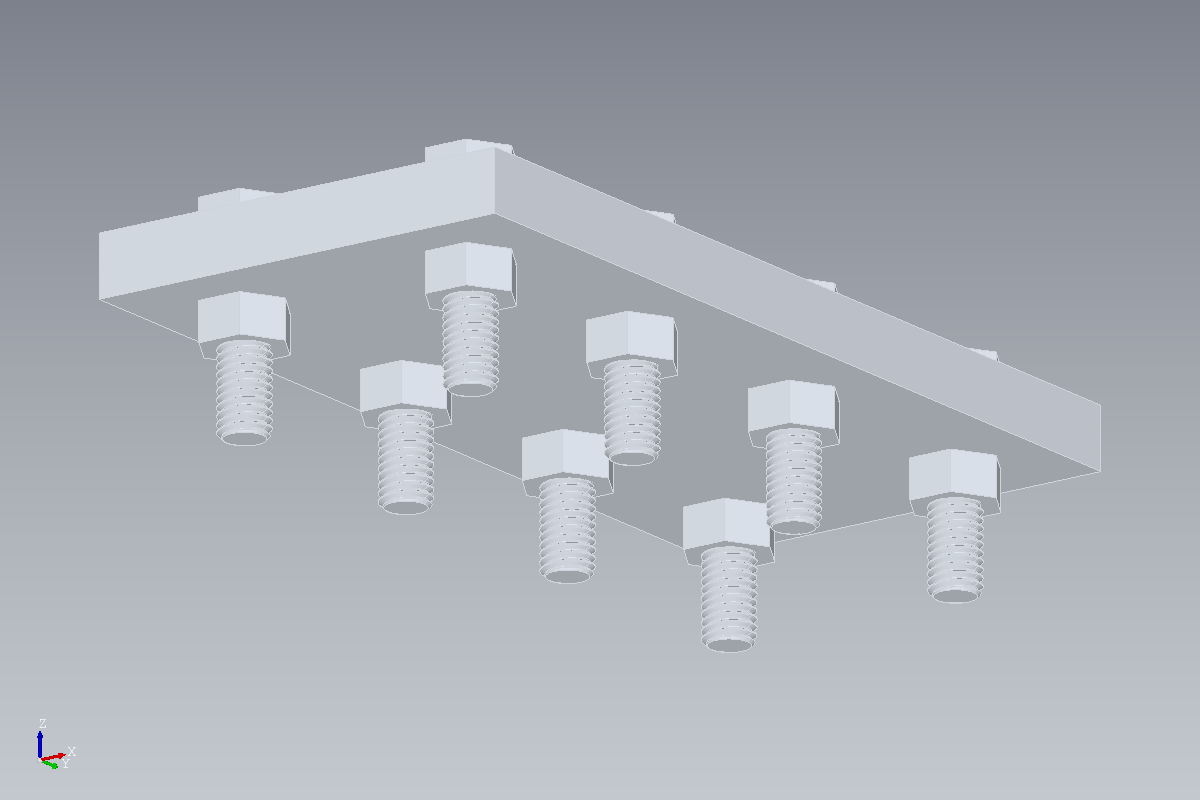
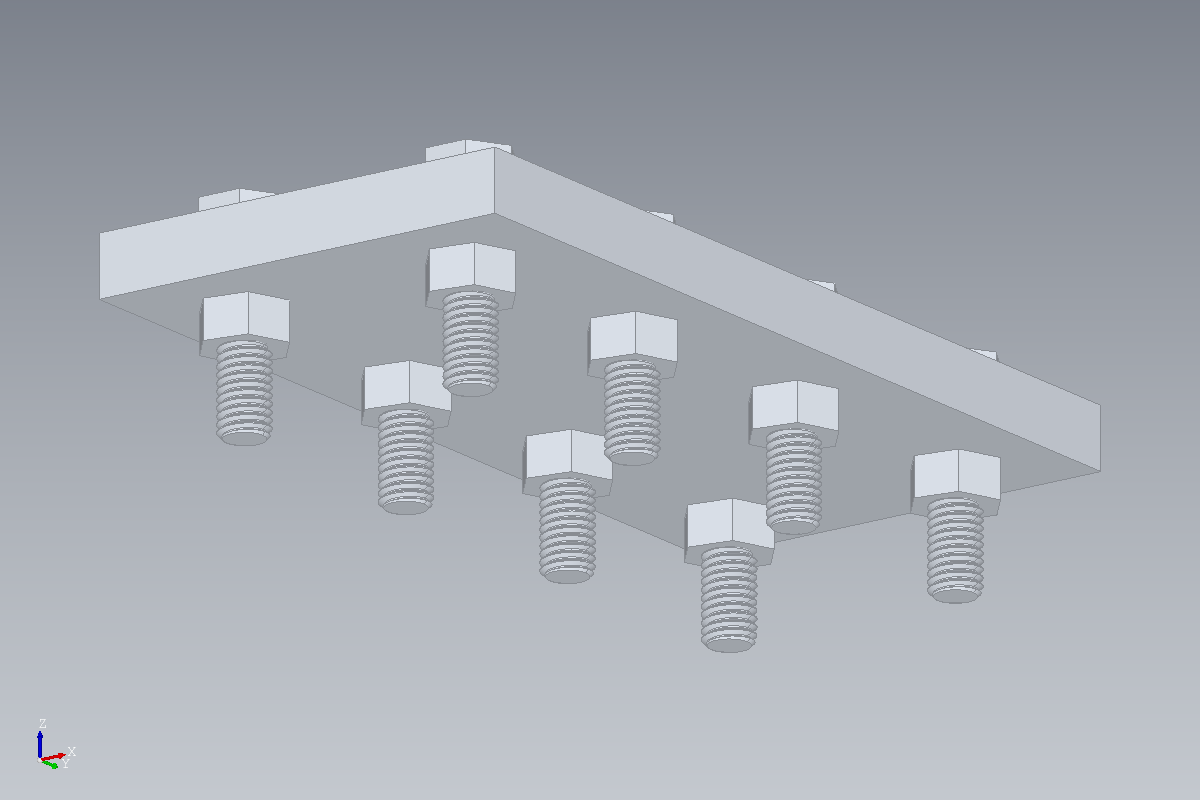
Release 0.2.0: version, changelog, docs; nuts line up with their bolts' threads
- Version 0.2.0, CHANGELOG section [0.2.0], README and user guide cover
  NURBS freeform, deformers, assembly checks and the assistant.
- threaded_bolts.cmd turns each nut so its thread lines up with the bolt's
  thread: CONTACT now finds them touching, not overlapping by ~13 mm3.
- Release smoke test starts the bundled Copilot runtime (copilot status).
- Install hints use the real package name (modeler3d[ai]).

Claude-Session: https://claude.ai/code/session_01A7vhfV94yBLHqhQEUhuk1o

diff --git a/modeler/ai/copilot.py b/modeler/ai/copilot.py
@@ -1,6 +1,6 @@
 """The in-app assistant on GitHub Copilot: each user signs in with their own GitHub account.
 
-Copilot runs through the GitHub Copilot SDK (``pip install "3Dmodeling[ai]"``).
+Copilot runs through the GitHub Copilot SDK (the ``ai`` extra: ``pip install -e ".[ai]"``).
 Nothing is billed to this app: every request counts against the signed-in
 user's own Copilot plan, Copilot Free included. The SDK starts a Copilot
 runtime (downloaded once, about 190 MB, to the user's cache folder) and talks
@@ -37,7 +37,7 @@ from typing import Any
 
 from .tools import Toolbox
 
-SDK_HINT = 'The assistant needs the GitHub Copilot SDK and Python 3.11 or newer: pip install "3Dmodeling[ai]"'
+SDK_HINT = 'The assistant needs the GitHub Copilot SDK and Python 3.11 or newer: pip install -e ".[ai]" in a checkout, or pip install "modeler3d[ai] @ git+https://github.com/shashanksingh097/3Dmodeling"'
 DEVICE_URL = "https://github.com/login/device"
 FREE_SIGNUP_URL = "https://github.com/settings/copilot"
 

diff --git a/tests/test_contact.py b/tests/test_contact.py
@@ -154,3 +154,6 @@ def test_threaded_bolt_in_nut_is_a_thread_not_a_fit():
     assert [r["state"] for r in rows] == ["thread"] and "note" in rows[0]
     plain = cx.fit(p, bolt, "plate")["fits"]  # the threaded bolt in its plain 9 mm hole
     assert [r["state"] for r in plain] == ["clearance"] and plain[0]["per_side"] == pytest.approx(0.5)
+    # each nut is turned so its thread lines up with the bolt's: they touch, not overlap
+    assert p.evaluate(f"OVERLAP({bolt}, {nut})") == pytest.approx(0, abs=1e-3)
+    assert p.evaluate(f"TOUCH({bolt}, {nut})") == 1

diff --git a/modeler/__init__.py b/modeler/__init__.py
@@ -1,6 +1,6 @@
 """3Dmodeling: a command-driven 3D modeler."""
 
-__version__ = "0.1.0"
+__version__ = "0.2.0"
 
 HOME_URL = "https://github.com/shashanksingh097/3Dmodeling"
 USER_GUIDE_URL = HOME_URL + "/blob/main/docs/USER-GUIDE.md"

diff --git a/README.md b/README.md
@@ -54,26 +54,26 @@ The language (parameters, expressions, loops, conditions, macros, selection
 by criteria, the editable history) is described in
 [docs/LANGUAGE.md](docs/LANGUAGE.md).
 
-## What it can do (0.1)
+## What it can do (0.2)
 
 - **Model by mouse or by text.** Toolbars, a fill-in form for every command, picking faces and edges in the 3D view, or a command line with completion and argument hints. Scripts with parameters, loops, conditions and your own commands.
 - **Edit any step later.** The history panel holds every step; edit, insert, suppress or delete one and the model rebuilds. Picks follow the faces they meant.
 - **Sketches** with constraints and sizes, trim, extend, fillet, offset, mirror, pattern; extrude and revolve.
 - **Features:** holes (plain, counterbore, countersink, threaded), fillets, chamfers, shell, draft, offset, split, push/pull and delete faces, patterns of features.
 - **Shapes from curves:** loft, sweep with twist and scale laws (and a graphical sweep editor), morph, pipe, rail sweeps, spine lofts, real ISO threads, springs, text, shapes from equations.
+- **NURBS freeform:** curves and surfaces from control points you can drag, networks, fills, G1/G2 blends, extend, trim, guide-curve lofts, zebra and curvature analysis, and deformers (bend, twist, taper, stretch, flow along a curve).
 - **Parts** with parameters, placed many times, and a part library.
-- **Layers, colours, materials**, mass properties, distances, angles, clash checks, section views.
+- **Layers, colours, materials**, mass properties, distances, angles, clash checks, section views, and assembly checks: do parts touch, how much clearance a shaft has in its hole, where one part sits relative to another.
 - **Results you can trust:** every operation is checked, and a broken result is refused with a reason.
 - **Files:** projects (`.m3d`) with autosave and recovery; import STEP, IGES, BREP, STL, OBJ, 3MF, glTF, PLY, OFF, VTK and simulation meshes (Gmsh, Abaqus, Nastran); export STEP, IGES, BREP, STL, OBJ, 3MF, glTF.
 - **Assistant:** chat with GitHub Copilot, signed in with your own GitHub account (Copilot Free works); it reads the model with exact tools, tests scripts in a sandbox and proposes them with a Run button.
-- **Text tools for an AI assistant** (describe a body, probe it with rays, check expectations), ready for the chat panel in a later release.
 
 ## Install from source
 
 ```bash
 python -m venv .venv
 source .venv/bin/activate          # Windows: .venv\Scripts\activate
-pip install -e ".[test]"
+pip install -e ".[test]"                # add ,ai for the assistant (Python 3.11+)
 python -m modeler                                      # the app
 python -m modeler scripts/flange.cmd                   # the app with a parametric flange
 python -m modeler run scripts/flange.cmd -D N_BOLTS=8  # same script, headless
@@ -94,7 +94,7 @@ kernel, installs with pip) and numpy.
 | `modeler/sketch/` | the 2D sketcher and its constraint solver |
 | `modeler/viewport/` | 3D view and picking (picks emit commands, never change the model) |
 | `modeler/gui/` | main window, forms, panels, menus |
-| `modeler/ai/` | text tools for an AI assistant |
+| `modeler/ai/` | the assistant (GitHub Copilot) and its text tools |
 | `scripts/` | example scripts (also under **File > Open example**) |
 | `packaging/` | the desktop build recipe ([docs/RELEASING.md](docs/RELEASING.md)) |
 
@@ -102,5 +102,5 @@ kernel, installs with pip) and numpy.
 
 - [User guide](docs/USER-GUIDE.md), [examples with pictures](docs/EXAMPLES.md) and [command language](docs/LANGUAGE.md)
 - [Changelog](CHANGELOG.md) and [how releases are made](docs/RELEASING.md)
-- [Product and technical plan](docs/PLAN.md), with what comes after 0.1
-- Design notes per milestone: [M0](docs/M0.md), [M1](docs/M1.md), [M2](docs/M2.md), [forms](docs/M2-forms.md), [M3](docs/M3.md), [sketcher](docs/M3-sketcher.md), [sketch tools](docs/M3-sketch-tools.md), [sweep editor](docs/M3-sweep-editor.md), [parts](docs/M4-parts.md), [threads](docs/M4-threads.md), [rails](docs/M4-rails.md), [M4 shapes](docs/M4-shapes.md), [speed](docs/speed-patterns.md), [AI tools](docs/M9-ai-tools.md)
+- [Product and technical plan](docs/PLAN.md), with what comes after 0.2
+- Design notes per milestone: [M0](docs/M0.md), [M1](docs/M1.md), [M2](docs/M2.md), [forms](docs/M2-forms.md), [M3](docs/M3.md), [sketcher](docs/M3-sketcher.md), [sketch tools](docs/M3-sketch-tools.md), [sweep editor](docs/M3-sweep-editor.md), [parts](docs/M4-parts.md), [threads](docs/M4-threads.md), [rails](docs/M4-rails.md), [M4 shapes](docs/M4-shapes.md), [speed](docs/speed-patterns.md), [NURBS](docs/M5-nurbs.md), [AI tools](docs/M9-ai-tools.md), [assistant](docs/M9-copilot.md)

diff --git a/docs/USER-GUIDE.md b/docs/USER-GUIDE.md
@@ -5,7 +5,7 @@ is turned into a short line of text, a **command**, and kept in the
 **History**. So every model is also a script: you can edit any step later,
 change a number and watch the part rebuild, or write the whole part as text.
 
-This guide covers version 0.1. The full command language is in
+This guide covers version 0.2. The full command language is in
 [LANGUAGE.md](LANGUAGE.md), and inside the app under **Help > Command reference**.
 
 Contents:
@@ -37,9 +37,9 @@ Get the zip for your system from the
 
 | System | Download | Start it |
 |--------|----------|----------|
-| Windows 10 or 11 (64-bit) | `3Dmodeling-0.1.0-windows-x64.zip` | unzip, open the folder, run `3Dmodeling.exe` |
-| macOS 12 or later on Apple silicon (M1 and newer) | `3Dmodeling-0.1.0-macos-arm64.zip` | unzip, move `3Dmodeling.app` to Applications, open it |
-| Linux (64-bit, X11 or XWayland) | `3Dmodeling-0.1.0-linux-x64.tar.gz` | `tar xzf` it, run `3Dmodeling/3Dmodeling` |
+| Windows 10 or 11 (64-bit) | `3Dmodeling-0.2.0-windows-x64.zip` | unzip, open the folder, run `3Dmodeling.exe` |
+| macOS 12 or later on Apple silicon (M1 and newer) | `3Dmodeling-0.2.0-macos-arm64.zip` | unzip, move `3Dmodeling.app` to Applications, open it |
+| Linux (64-bit, X11 or XWayland) | `3Dmodeling-0.2.0-linux-x64.tar.gz` | `tar xzf` it, run `3Dmodeling/3Dmodeling` |
 
 The builds are not signed yet, so the first start shows a warning:
 
@@ -60,7 +60,7 @@ modeler                            # or: python -m modeler
 ```
 
 For the assistant (section 15) you need Python 3.11 or newer and
-`pip install "3Dmodeling[ai] @ git+https://github.com/shashanksingh097/3Dmodeling"`.
+`pip install "modeler3d[ai] @ git+https://github.com/shashanksingh097/3Dmodeling"`.
 
 `modeler check` prints the versions and tests the 3D kernel. If the window
 does not open, see [When something goes wrong](#14-when-something-goes-wrong).
@@ -210,9 +210,23 @@ All of these are in the **Commands** menu with forms, and in
 | Special | `THREAD` (real ISO threads), `SPRING`, `TEXT`, `SURFACE, PARAM` (shapes from equations) |
 | Edit faces | `PUSHPULL` (move faces), `DELFACE` (remove a hole or fillet and close the gap); handy on imported parts |
 | Build on | `PLANE`, `AXIS`, `POINT` datums and `WORKPLANE` to draw on any plane |
+| Freeform (NURBS) | `NURBS` curves and `NSURF` surfaces from control points, `NETWORK` through a grid of curves, `FILL` a hole, `SEW` surfaces into a solid, `REBUILD`, `MOVEPT`, `WEIGHT`, `KNOT`, `DEGREE` |
+| Freeform edits | `BLEND` two surfaces smoothly (G1 or G2), `EXTEND`, `TRIM`, `MOVEFACE`, `REPLACEFACE`, `LOFT, ..., GUIDE` (lofts steered by guide curves), `PROJECT` a curve onto a surface |
+| Deform | `BEND`, `TWIST`, `TAPER`, `STRETCH` whole bodies, `FLOW` a body (a text, say) along a curve, `SWEEPVOL` the volume a cutter sweeps |
 
 The **Sweep editor** on the Features toolbar shapes a sweep's twist and
 scale by dragging handles on a graph, with a live preview.
+
+**Control points.** Pick a NURBS curve or surface and press **Control
+points**: its control points appear in the 3D view and you can drag them.
+Each drag becomes a `MOVEPT` step in the History, so it can be edited later
+like any other step.
+
+**Surface quality.** `ANALYZE` (and the **Zebra** button) colours a body
+with zebra stripes, curvature or draft for moulding, and says in words
+which joins are smooth (G2), tangent (G1) or creased. Details:
+[M5-nurbs.md](M5-nurbs.md); a worked example is the computer mouse,
+`scripts/mouse.cmd`.
 
 ---
 
@@ -393,7 +407,8 @@ files, web) are switched off in this app.
 The first time, the app downloads the Copilot runtime (about 190 MB) to
 your cache folder, so you need internet then.
 
-From a shell, `python -m modeler copilot check` tests everything for your
+From a shell, `python -m modeler copilot check` (in the downloaded app:
+`3Dmodeling-cli copilot check`) tests everything for your
 account: sign-in, allowance, models, and one question that Copilot must
 answer with the modeler's tools. It prints PASS or FAIL per step. Add
 `--folder DIR` to use another working folder.

diff --git a/CHANGELOG.md b/CHANGELOG.md
@@ -4,8 +4,21 @@ All notable changes to 3Dmodeling. Versions follow [semantic versioning](https:/
 
 ## [Unreleased]
 
+## [0.2.0] - 2026-11-14
+
+The second release: freeform NURBS surfaces and deformers, an assistant
+on GitHub Copilot that signs in with your own GitHub account, checks for
+whether parts touch and fit, and many more file formats.
+
+**Downloads** for Windows (x64), macOS (Apple silicon) and Linux (x64) are
+attached below and need no Python; the assistant is included. They are not
+code-signed yet; the
+[user guide](https://github.com/shashanksingh097/3Dmodeling/blob/main/docs/USER-GUIDE.md#1-install)
+says how to open them the first time. Projects and scripts from 0.1.0 open
+unchanged.
+
 ### Assistant
-- An **Assistant** panel with GitHub Copilot (Help > Ask the assistant, Ctrl+Shift+A). Sign in with your own GitHub account using a one-time code; any Copilot plan works, Copilot Free included, and requests count against your own plan. Copilot reads the model with the modeler's text tools, tries scripts in a sandbox, and shows a proposal with a Run button; it never changes the model by itself, and its own coding tools are switched off. Needs `pip install "3Dmodeling[ai]"` (Python 3.11+); the Copilot runtime downloads on first use (about 190 MB).
+- An **Assistant** panel with GitHub Copilot (Help > Ask the assistant, Ctrl+Shift+A). Sign in with your own GitHub account using a one-time code; any Copilot plan works, Copilot Free included, and requests count against your own plan. Copilot reads the model with the modeler's text tools, tries scripts in a sandbox, and shows a proposal with a Run button; it never changes the model by itself, and its own coding tools are switched off. Included in the downloads; from source it needs `pip install -e ".[ai]"` in a checkout (Python 3.11+). The Copilot runtime downloads on first use (about 190 MB).
 - The assistant can change existing steps (a size, a step that fails): it tries the edits on a copy first, and the panel shows each step's old and new text before you press Run. It can also explain what works on an imported body: `DESCRIBE` and its tools now say whether a body is exact (STEP, IGES, BREP) or faceted (a mesh) and which file it came from.
 - A working folder for the assistant (**Folder** in the panel): a temporary folder by default, the project's folder, or one you choose. This also fixes "Copilot is not available: CopilotClient(mode='empty') requires base_directory" when signing in.
 - Signing in works on Windows: the sign-in is kept in your own app-data folder (`%APPDATA%\3Dmodeling\copilot`) after you agree. Before, pressing Yes still ended with "the credential could not be stored".
@@ -38,6 +51,7 @@ All notable changes to 3Dmodeling. Versions follow [semantic versioning](https:/
 - Face edges are drawn in a darker shade of the body's colour, so panel lines and small gaps read at any zoom.
 
 ### Fixes
+- The nuts in the threaded bolts example (`scripts/threaded_bolts.cmd`) no longer overlap their bolts by about 13 mm³ each: each nut is turned so its thread lines up with the bolt's, and `CONTACT` finds them touching on the thread flanks. [LANGUAGE.md](docs/LANGUAGE.md) shows the formula for your own bolts and nuts.
 - `ANALYZE` no longer calls a join G1 between two nearly flat faces whose tiny curvatures differ (a bend wider than 100 times the body counts as flat).
 - `python -m modeler run` marks the line that failed inside a block or macro with `ERROR:`, not the block's first line.
 

diff --git a/docs/EXAMPLES.md b/docs/EXAMPLES.md
@@ -729,9 +729,9 @@ NAME, LAST, plate
 
 ![Bolts and nuts with real threads](examples/threaded_bolts.png)
 
-A plate held by 8 bolts and nuts with real ISO metric threads. One bolt part and one nut part, each placed 8 times. Change D and every bolt and nut is rebuilt at the new size, thread pitch included (PITCH(D) looks up the ISO coarse pitch). Each size is built once and copied.
+A plate held by 8 bolts and nuts with real ISO metric threads. One bolt part and one nut part, each placed 8 times. Change D and every bolt and nut is rebuilt at the new size, thread pitch included (PITCH(D) looks up the ISO coarse pitch). Each size is built once and copied. Each nut is turned so its thread lines up with its bolt's thread, so CONTACT finds them touching on the thread flanks, not overlapping.
 
-**Script:** [scripts/threaded_bolts.cmd](../scripts/threaded_bolts.cmd) (39 lines) · **Run:** `python -m modeler scripts/threaded_bolts.cmd`
+**Script:** [scripts/threaded_bolts.cmd](../scripts/threaded_bolts.cmd) (48 lines) · **Run:** `python -m modeler scripts/threaded_bolts.cmd`
 
 **You should get:** 17 bodies, volume 121,095.0 mm³, 1526 faces
 
@@ -742,9 +742,12 @@ A plate held by 8 bolts and nuts with real ISO metric threads. One bolt part and
 ! One bolt part and one nut part, each placed 8 times. Change D and every
 ! bolt and nut is rebuilt at the new size, thread pitch included (PITCH(D)
 ! looks up the ISO coarse pitch). Each size is built once and copied.
+! Each nut is turned so its thread lines up with its bolt's thread, so
+! CONTACT finds them touching on the thread flanks, not overlapping.
 D = 8            ! bolt size (M8)
+L = 30           ! bolt length under the head
 T = 10           ! plate thickness
-A = 40         ! bolt spacing
+A = 40           ! bolt spacing
 
 *PART, bolt, D=8, L=30, K=0.7*D, B=2*D+6
   ! hexagon head: two hexagons joined by a straight loft
@@ -768,14 +771,20 @@ A = 40         ! bolt spacing
   THREAD                                      ! the matching inside thread
 *ENDPART
 
+! The bolt's thread groove starts at the tip chamfer (L - D/10 below the
+! head), the nut's at its top face; a turn of 360 degrees moves a thread one
+! pitch, and half a pitch puts the nut's ridge into the bolt's groove.
+P = PITCH(D)
+TURN = 360*((L - T - D/10 - P/2) % P)/P
+
 BLOCK, -A/2 - 15, -1.5*A - 15, -T, A + 30, 3*A + 30, T
 NAME, LAST, plate
 *DO, i, 0, 7
   X = A*((i % 2) - 0.5)
   Y = A*(INT(i/2) - 1.5)
   HOLE, plate, X, Y, 0, D + 1
-  INST, bolt, X, Y, 0, D=D
-  INST, nut, X, Y, -T - 0.8*D, D=D
+  INST, bolt, X, Y, 0, D=D, L=L
+  INST, nut, X, Y, -T - 0.8*D, TURN, D=D   ! turned TURN degrees about Z
 *ENDDO
 ```
 

diff --git a/docs/PLAN.md b/docs/PLAN.md
@@ -643,10 +643,12 @@ Still open in the milestones already started, in the suggested order:
    account and any Copilot plan, Copilot Free included. First part done:
    sign-in, the Assistant panel, the modeler's tools, proposals with a Run
    button (new steps or edits of existing steps), imported bodies described
-   as exact or faceted, and `python -m modeler copilot check`. Next: the
-   user's Copilot Free test, then "use your own key" (OpenAI, Anthropic, a
-   local model) for people without GitHub. Then release 0.2.0 (NURBS
-   freeform, the new formats and the assistant).
+   as exact or faceted, and `python -m modeler copilot check`, plus checks
+   for assemblies (`CONTACT`, `CLEARANCE`, `RELATE`, `COMPARE`,
+   `DESIGNCHECK`). Sign-in confirmed on Windows. Released as 0.2.0 (NURBS
+   freeform, the new formats and the assistant). "Use your own key"
+   (OpenAI, Anthropic, a local model) for people without GitHub moves to
+   the rest of M9c (item 7).
 4. M6, starting with mesh bodies and `manifold3d` booleans (what makes an
    imported mesh editable as a mesh), then implicit shapes and lattices,
    then knife and freehand cuts.
@@ -654,8 +656,8 @@ Still open in the milestones already started, in the suggested order:
    rebuild, a sketch fillet between a line and an arc, trimming to the
    sketch axes.
 6. M8 polish: 2D drawings (DXF/SVG), preferences and themes, code signing.
-7. The rest of M9c: picking for the assistant, pictures as a fallback,
-   the benchmark of modelling requests.
+7. The rest of M9c: "use your own key", picking for the assistant,
+   pictures as a fallback, the benchmark of modelling requests.
 8. M7 sculpt mode.
 
 A run of the viewer on a real Windows or macOS desktop (risk 5) is being

diff --git a/docs/M9-ai-tools.md b/docs/M9-ai-tools.md
@@ -342,9 +342,11 @@ script sit together):
 | `check_design(body, min_wall, min_edge)` (plan 3.4) | `DESIGNCHECK`; `PROBLEMS()` query | valid, closed, solid, pieces, inside out, small edges, sliver faces, self-intersection (up to 400 faces), thin walls. Draft and overhang rules are not in yet (`ANALYZE` covers draft) |
 | `compare_bodies(a, b)` | `COMPARE, a, b`; `SAMESHAPE()` query | volume, area, faces by type, inertia; then a moved copy (with the move) or a mirror image in a plane square to X, Y or Z, tested by the overlap of the moved body |
 
-The checks found that the nuts of `threaded_bolts.cmd` overlap their bolts
-by about 13 mm3 each: each nut's thread starts where the nut starts, not in
-step with the bolt's thread.
+The checks found that the nuts of `threaded_bolts.cmd` overlapped their
+bolts by about 13 mm3 each: each nut's thread started where the nut starts,
+not in step with the bolt's thread. The script now turns each nut by the
+angle that lines its thread up with the bolt's, and `CONTACT` finds them
+touching on the thread flanks.
 
 Not yet: `search_docs`, `around`, `parameters` with readers, `sketch_state`,
 `user_context`, `since` on every tool, `outline`, the rest of

diff --git a/docs/LANGUAGE.md b/docs/LANGUAGE.md
@@ -1024,6 +1024,13 @@ A threaded bolt and nut as parts (from `scripts/threaded_bolts.cmd`):
 *ENDPART
 ```
 
+A thread's groove starts at the free end it is cut from, so a nut placed on
+a bolt usually needs a turn about the axis for its thread to line up with
+the bolt's (otherwise the two overlap a little). The script works it out:
+`TURN = 360*((L - T - D/10 - PITCH(D)/2) % PITCH(D))/PITCH(D)` for a nut
+whose top is `T` below the head, then `INST, nut, x, y, z, TURN, D=D`.
+`CONTACT, bolt, nut` then reports them touching, not overlapping.
+
 ### SPRING
 
 `SPRING, x, y, z, r, pitch, turns, d [, dx, dy, dz] [, RIGHT|LEFT] [, closed] [, PLAIN|GROUND]`

diff --git a/docs/M9-copilot.md b/docs/M9-copilot.md
@@ -34,7 +34,7 @@ Sources: <https://github.com/github/copilot-sdk>,
 
 `modeler/ai/copilot.py` holds everything that talks to Copilot.
 
-* **Install.** An optional extra: `pip install "3Dmodeling[ai]"` (skipped on
+* **Install.** An optional extra: `pip install -e ".[ai]"` in a checkout (skipped on
   Python 3.10, so the rest of the app still installs there). The release
   builds include it. The Copilot runtime (about 190 MB) downloads once to the
   user's cache folder the first time the assistant starts.
